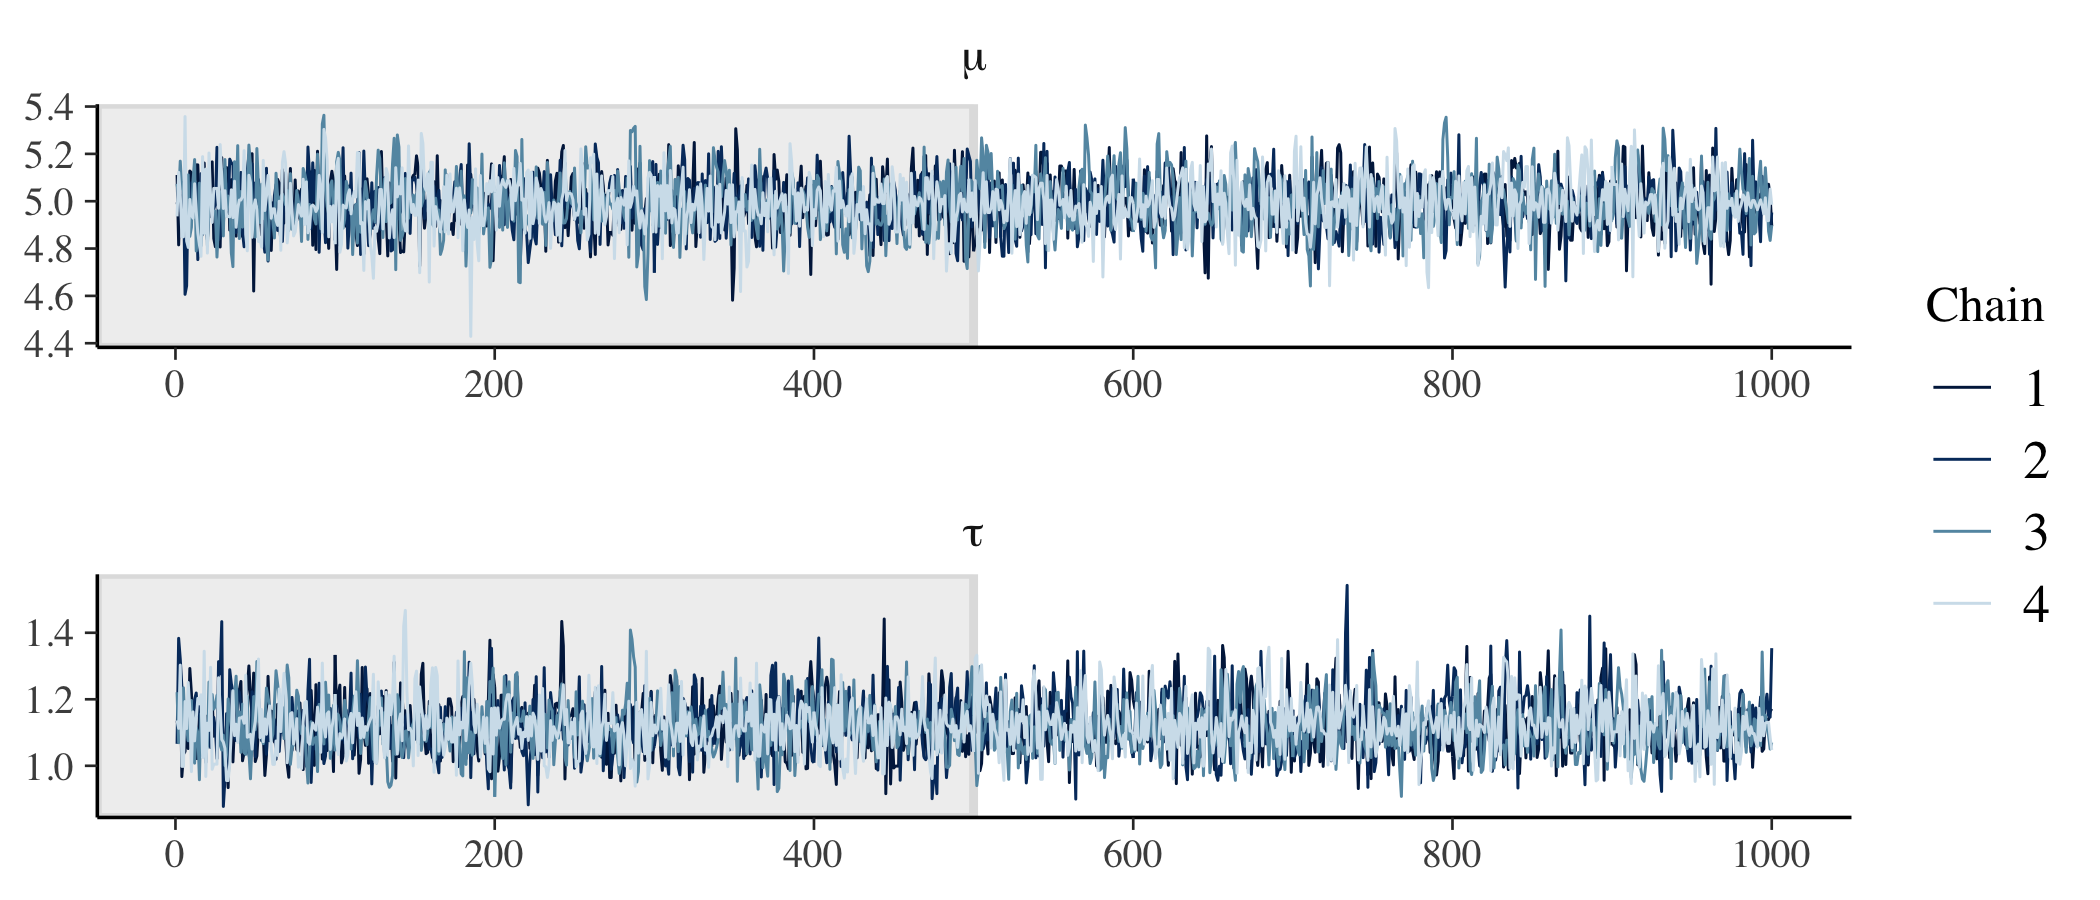
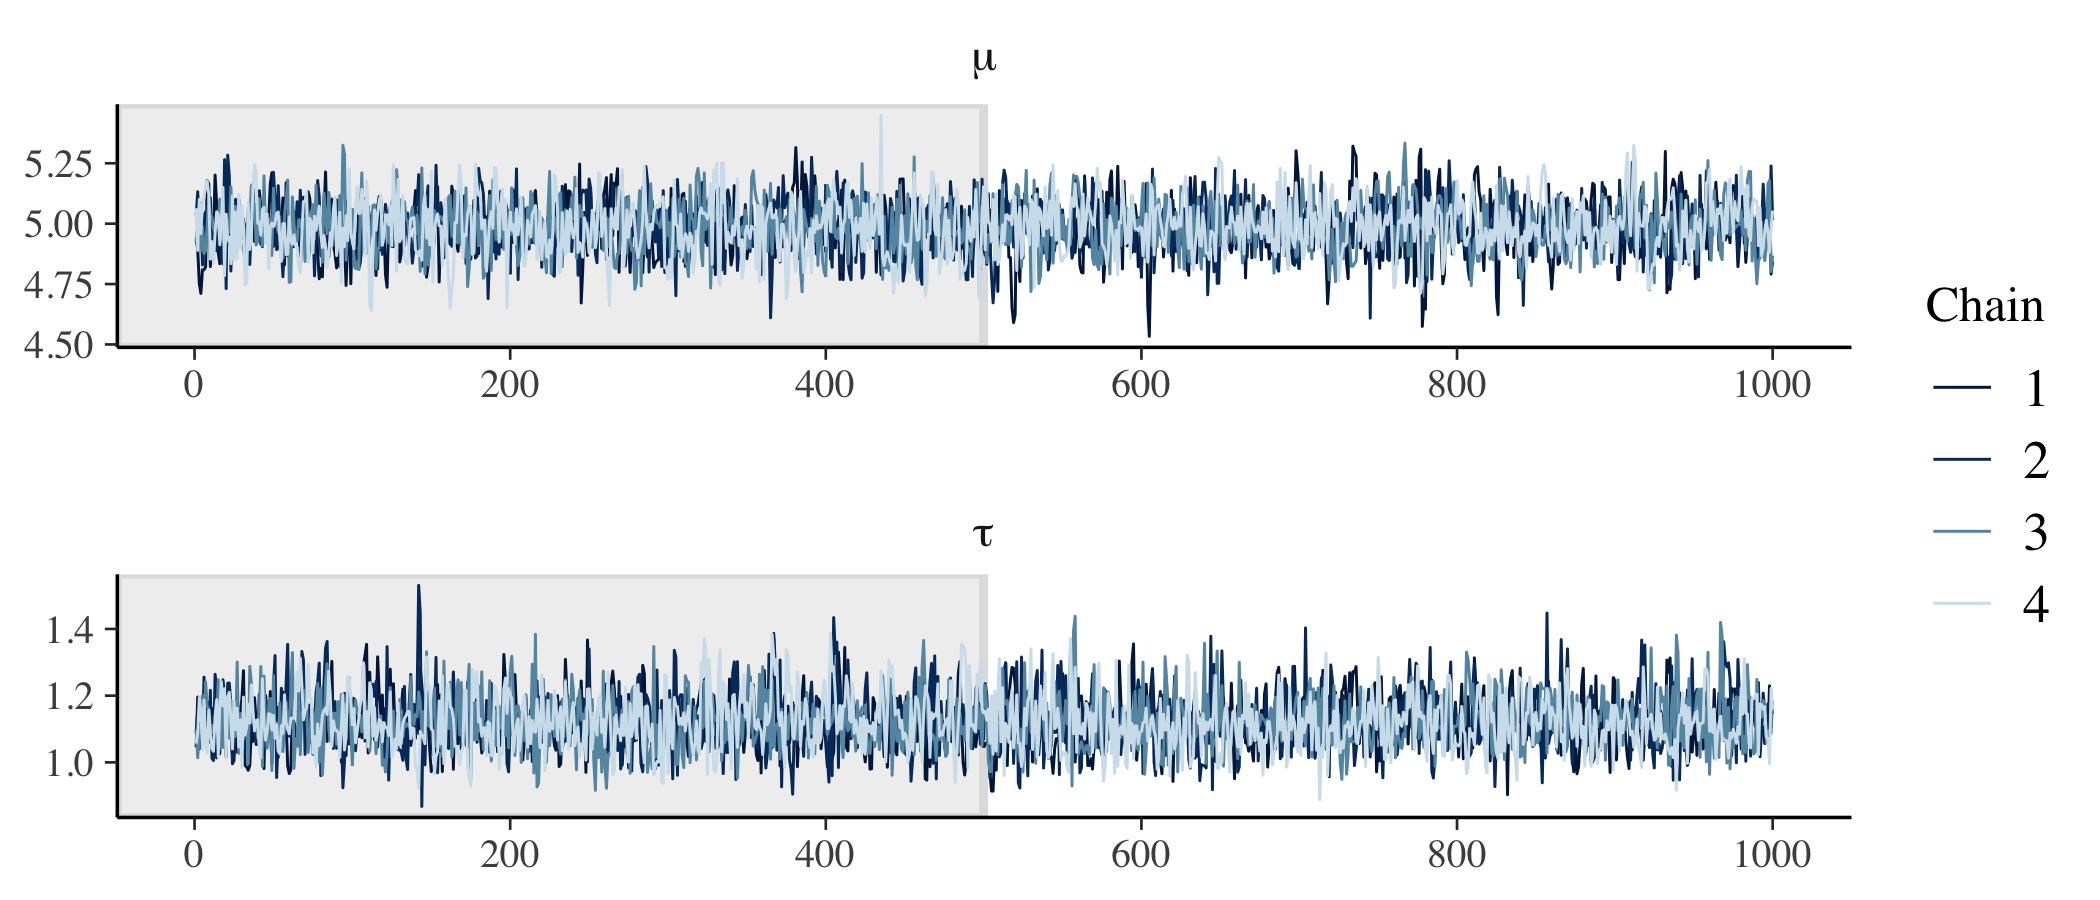
Updated priors for the simple regression

diff --git a/content/post/stan-hierarchical/index.html b/content/post/stan-hierarchical/index.html
@@ -1,7 +1,7 @@
 ---
 title: "Hierarchical models in Stan"
 author: "Marc Dotson"
-date: '2019-12-29'
+date: '2019-12-31'
 slug: stan-hierarchical
 ---
 
@@ -9,7 +9,7 @@ slug: stan-hierarchical
 
 <p>Bayesian inference provides an intuitive and self-consistent approach to statistical modeling. In short, you have beliefs about unobserved values (e.g., the impact of price on customer satisfaction) and you use data to update those beliefs. The barrier to using Bayesian inference in practice has never been this intuition – it’s been the required computation. There has been a great deal of progress on this front, with <a href="https://mc-stan.org">Stan</a> arguably providing the best modern solution.</p>
 <p>Stan is a probabilistic programming language that provides a general-purpose sampler using Hamiltonian Monte Carlo. In other words, Stan automates the required computation (for many models), allowing you to conduct Bayesian inference by focusing solely on model building. This is especially powerful when it comes to utilizing the mainstay of Bayesian inference: hierarchical models.</p>
-<p>The goal of this post is to provide a gentle introduction to building hierarchical models in Stan. We will be interfacing with Stan through R and will be adopting a <a href="https://www.tidyverse.org">tidy approach</a> whenever appropriate. This post does not provide an introduction to Bayesian inference, including a complete Bayesian inference workflow, or the basics of using Stan. For that, I recommend Richard McElreath’s <a href="https://xcelab.net/rm/statistical-rethinking/"><em>Statistical Rethinking</em></a>, Michael Betancourt’s <a href="https://betanalpha.github.io/writing/">case studies</a>, and the <a href="https://mc-stan.org/docs/2_21/stan-users-guide/index.html">Stan User’s Guide</a>. Much of what follows is motivated by Richard and Michael’s work as well as Ben Goodrich’s <a href="https://mc-stan.org/events/stancon2019Cambridge/">StanCon 2019</a> tutorial.</p>
+<p>The goal of this post is to provide a gentle introduction to building hierarchical models in Stan. We will be interfacing with Stan through R and will be adopting a <a href="https://www.tidyverse.org">tidy approach</a> whenever appropriate. This post does not provide an introduction to Bayesian inference, including a complete Bayesian inference workflow, or the basics of using Stan. For that, I recommend Michael Betancourt’s <a href="https://betanalpha.github.io/writing/">case studies</a>, Richard McElreath’s <a href="https://xcelab.net/rm/statistical-rethinking/"><em>Statistical Rethinking</em></a>, and the <a href="https://mc-stan.org/docs/2_21/stan-users-guide/index.html">Stan User’s Guide</a>. Much of what follows is motivated by Michael and Richard’s work as well as Ben Goodrich’s <a href="https://mc-stan.org/events/stancon2019Cambridge/">StanCon 2019</a> tutorial.</p>
 <div id="simple-regression" class="section level2">
 <h2>Simple regression</h2>
 <p>By way of introduction, let’s start with a simple, non-hierarchical regression. In a Stan script, which <a href="https://blog.rstudio.com/2018/10/16/rstudio-1-2-preview-stan/">has native support in RStudio</a>, we specify the three required blocks for a Stan model: <code>data</code>, <code>parameters</code>, and <code>model</code> (i.e., the prior and the likelihood).</p>
@@ -29,12 +29,12 @@ parameters {
 model {
   // Priors.
   mu ~ normal(0, 5);
-  tau ~ cauchy(0, 2.5);
+  tau ~ normal(0, 5);
 
   // Likelihood.
   y ~ normal(mu, tau);
 }</code></pre>
-<p>We’ll save this Stan script as <code>regression.stan</code>. Imagine this is a model of customer satisfaction where we have <code>N</code> individuals, a vector of satisfaction scores <code>y</code> with a single observation from each individual, and we are assuming that satisfaction <code>y</code> is distributed <code>normal</code>, with a single mean <code>mu</code> and variance <code>tau</code> to describe customer satisfaction in the population. Finally, our joint model is complete with a <code>normal</code> prior on <code>mu</code> and a <code>cauchy</code> prior on <code>tau</code>.</p>
+<p>We’ll save this Stan script as <code>regression.stan</code>. Imagine this is a model of customer satisfaction where we have <code>N</code> individuals, a vector of satisfaction scores <code>y</code> with a single observation from each individual, and we are assuming that satisfaction <code>y</code> is distributed <code>normal</code>, with a single mean <code>mu</code> and variance <code>tau</code> to describe customer satisfaction in the population. Finally, our joint model is complete with <code>normal</code> priors on <code>mu</code> and <code>tau</code>, where <code>tau</code> is constrained to be positive in the <code>parameters</code> block.</p>
 <p>Like all Bayesian models, this model is generative, so we can also use Stan to generate data according to some assumed parameter values and then use the generated data to test the model, including demonstrating parameter recovery. To do this, we reorganize these three blocks into <code>data</code> (which now includes the assumed parameter values as data) and <code>generated quantities</code> blocks (which now includes the observations that will be generated).</p>
 <pre class="stan"><code>// Simple regression.
 
@@ -105,9 +105,7 @@ fit &lt;- stan(
   data = data,
   seed = 42
 )</code></pre>
-<pre><code>...
-
-SAMPLING FOR MODEL &#39;regression&#39; NOW (CHAIN 4).
+<pre><code>SAMPLING FOR MODEL &#39;regression&#39; NOW (CHAIN 4).
 Chain 4: Gradient evaluation took 1.2e-05 seconds
 Chain 4: 1000 transitions using 10 leapfrog steps per transition would take 0.12 seconds.
 Chain 4: Adjust your expectations accordingly!
